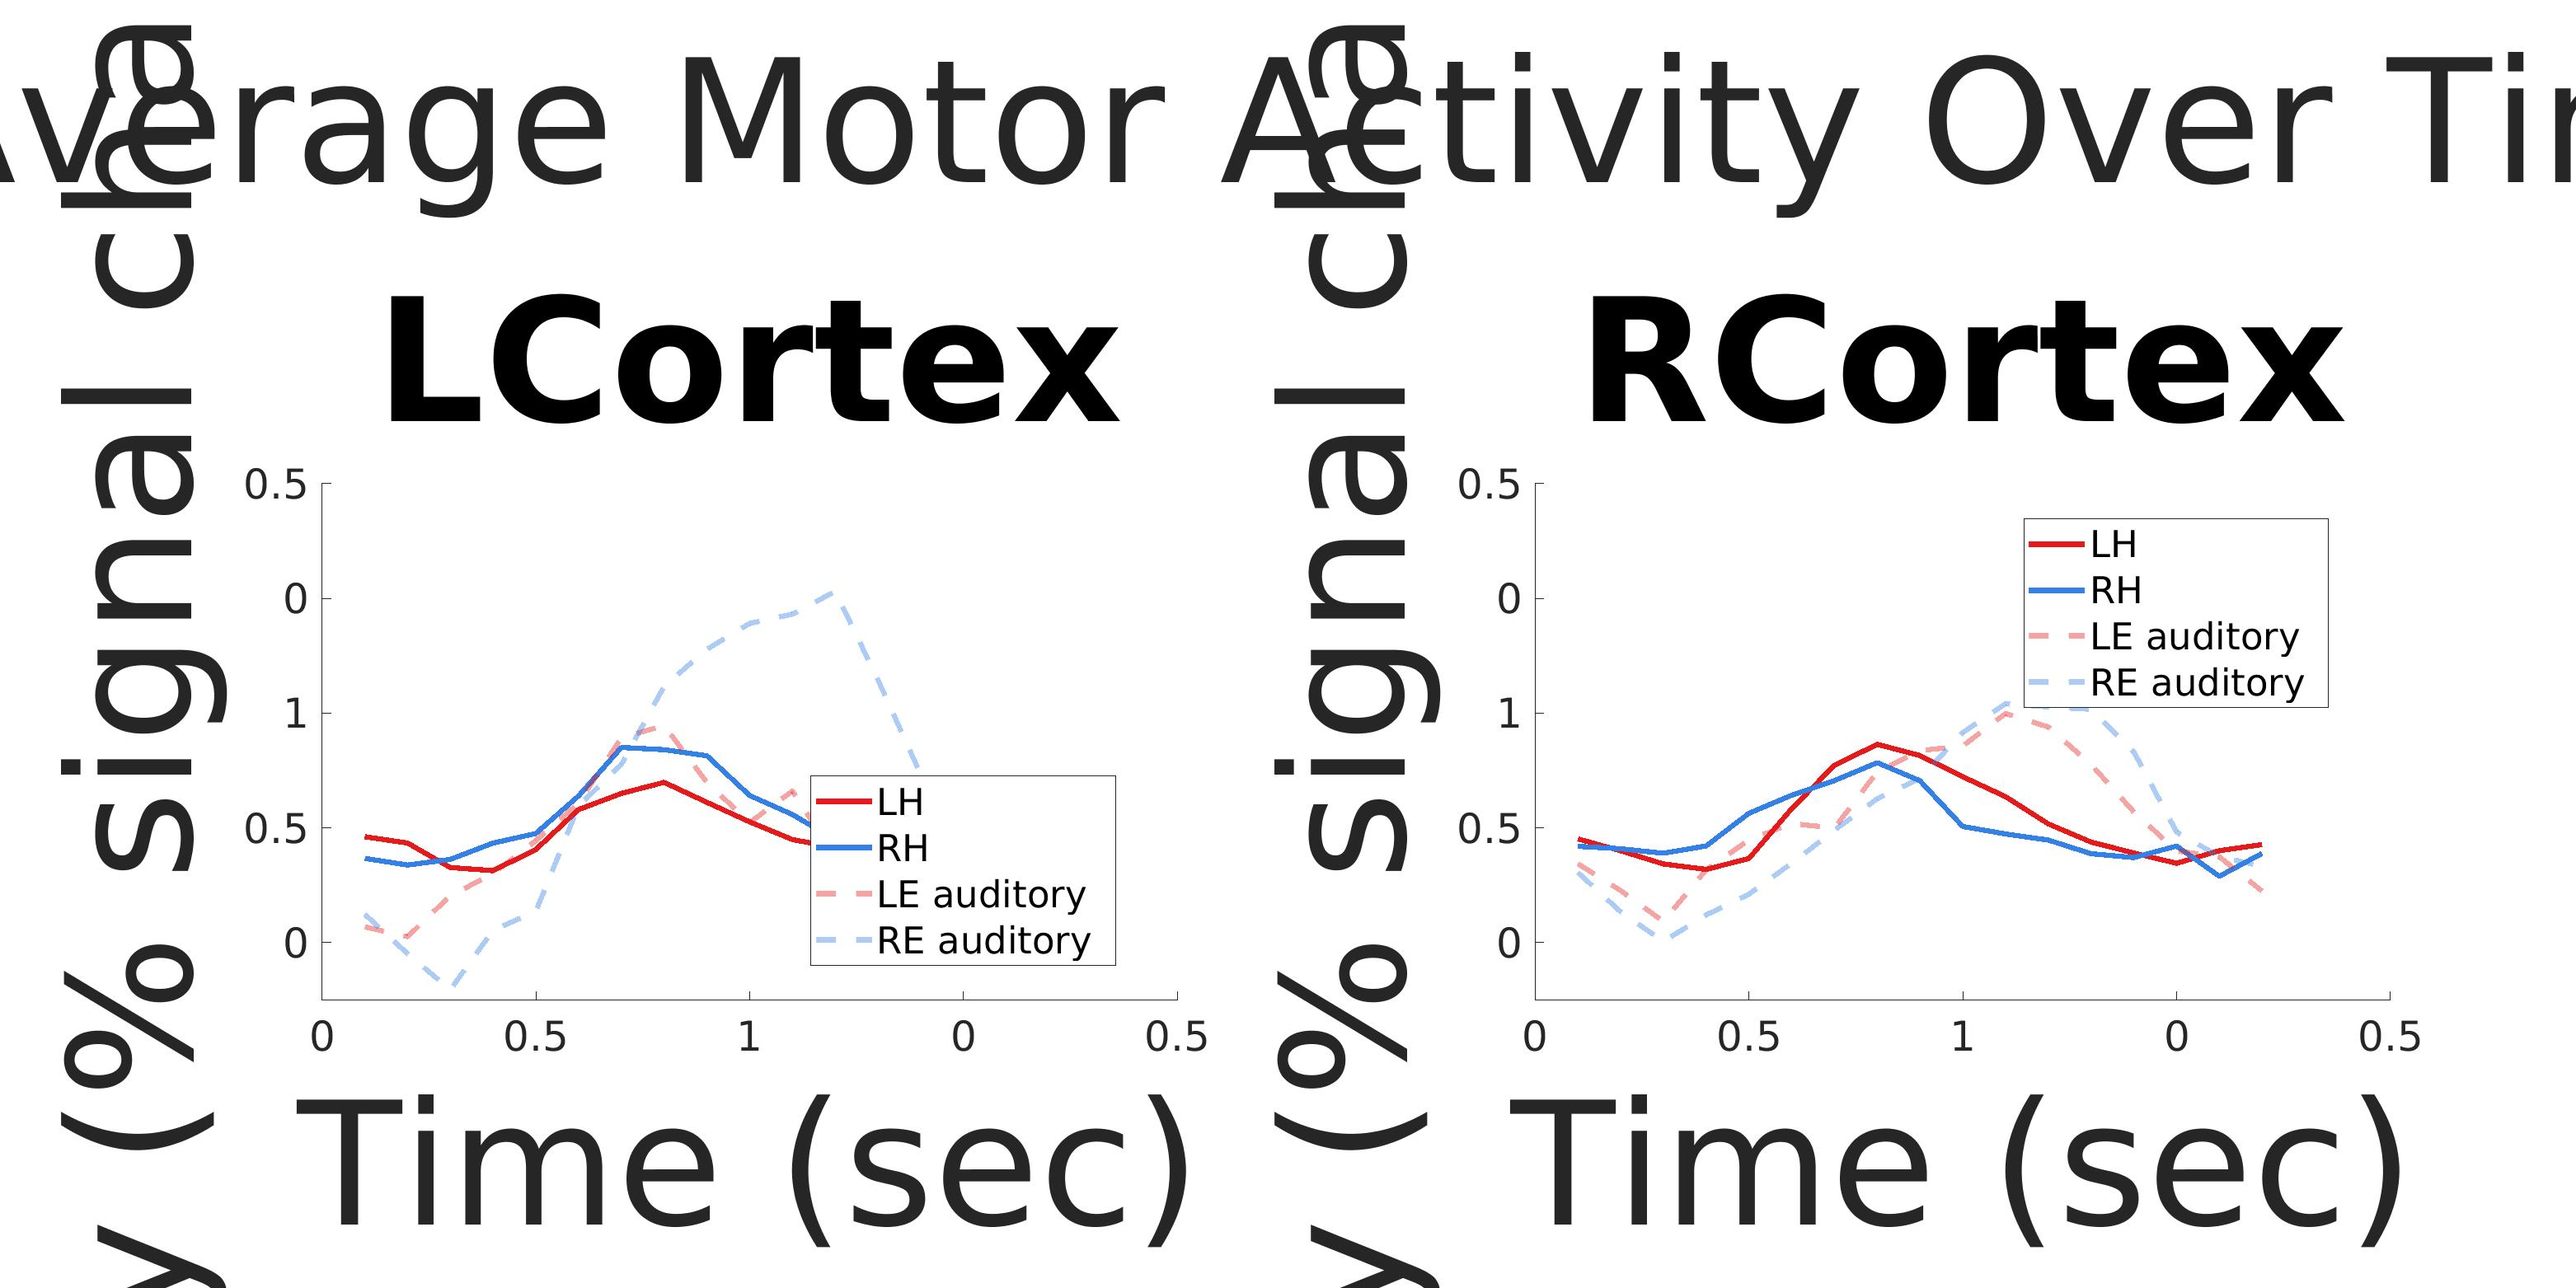
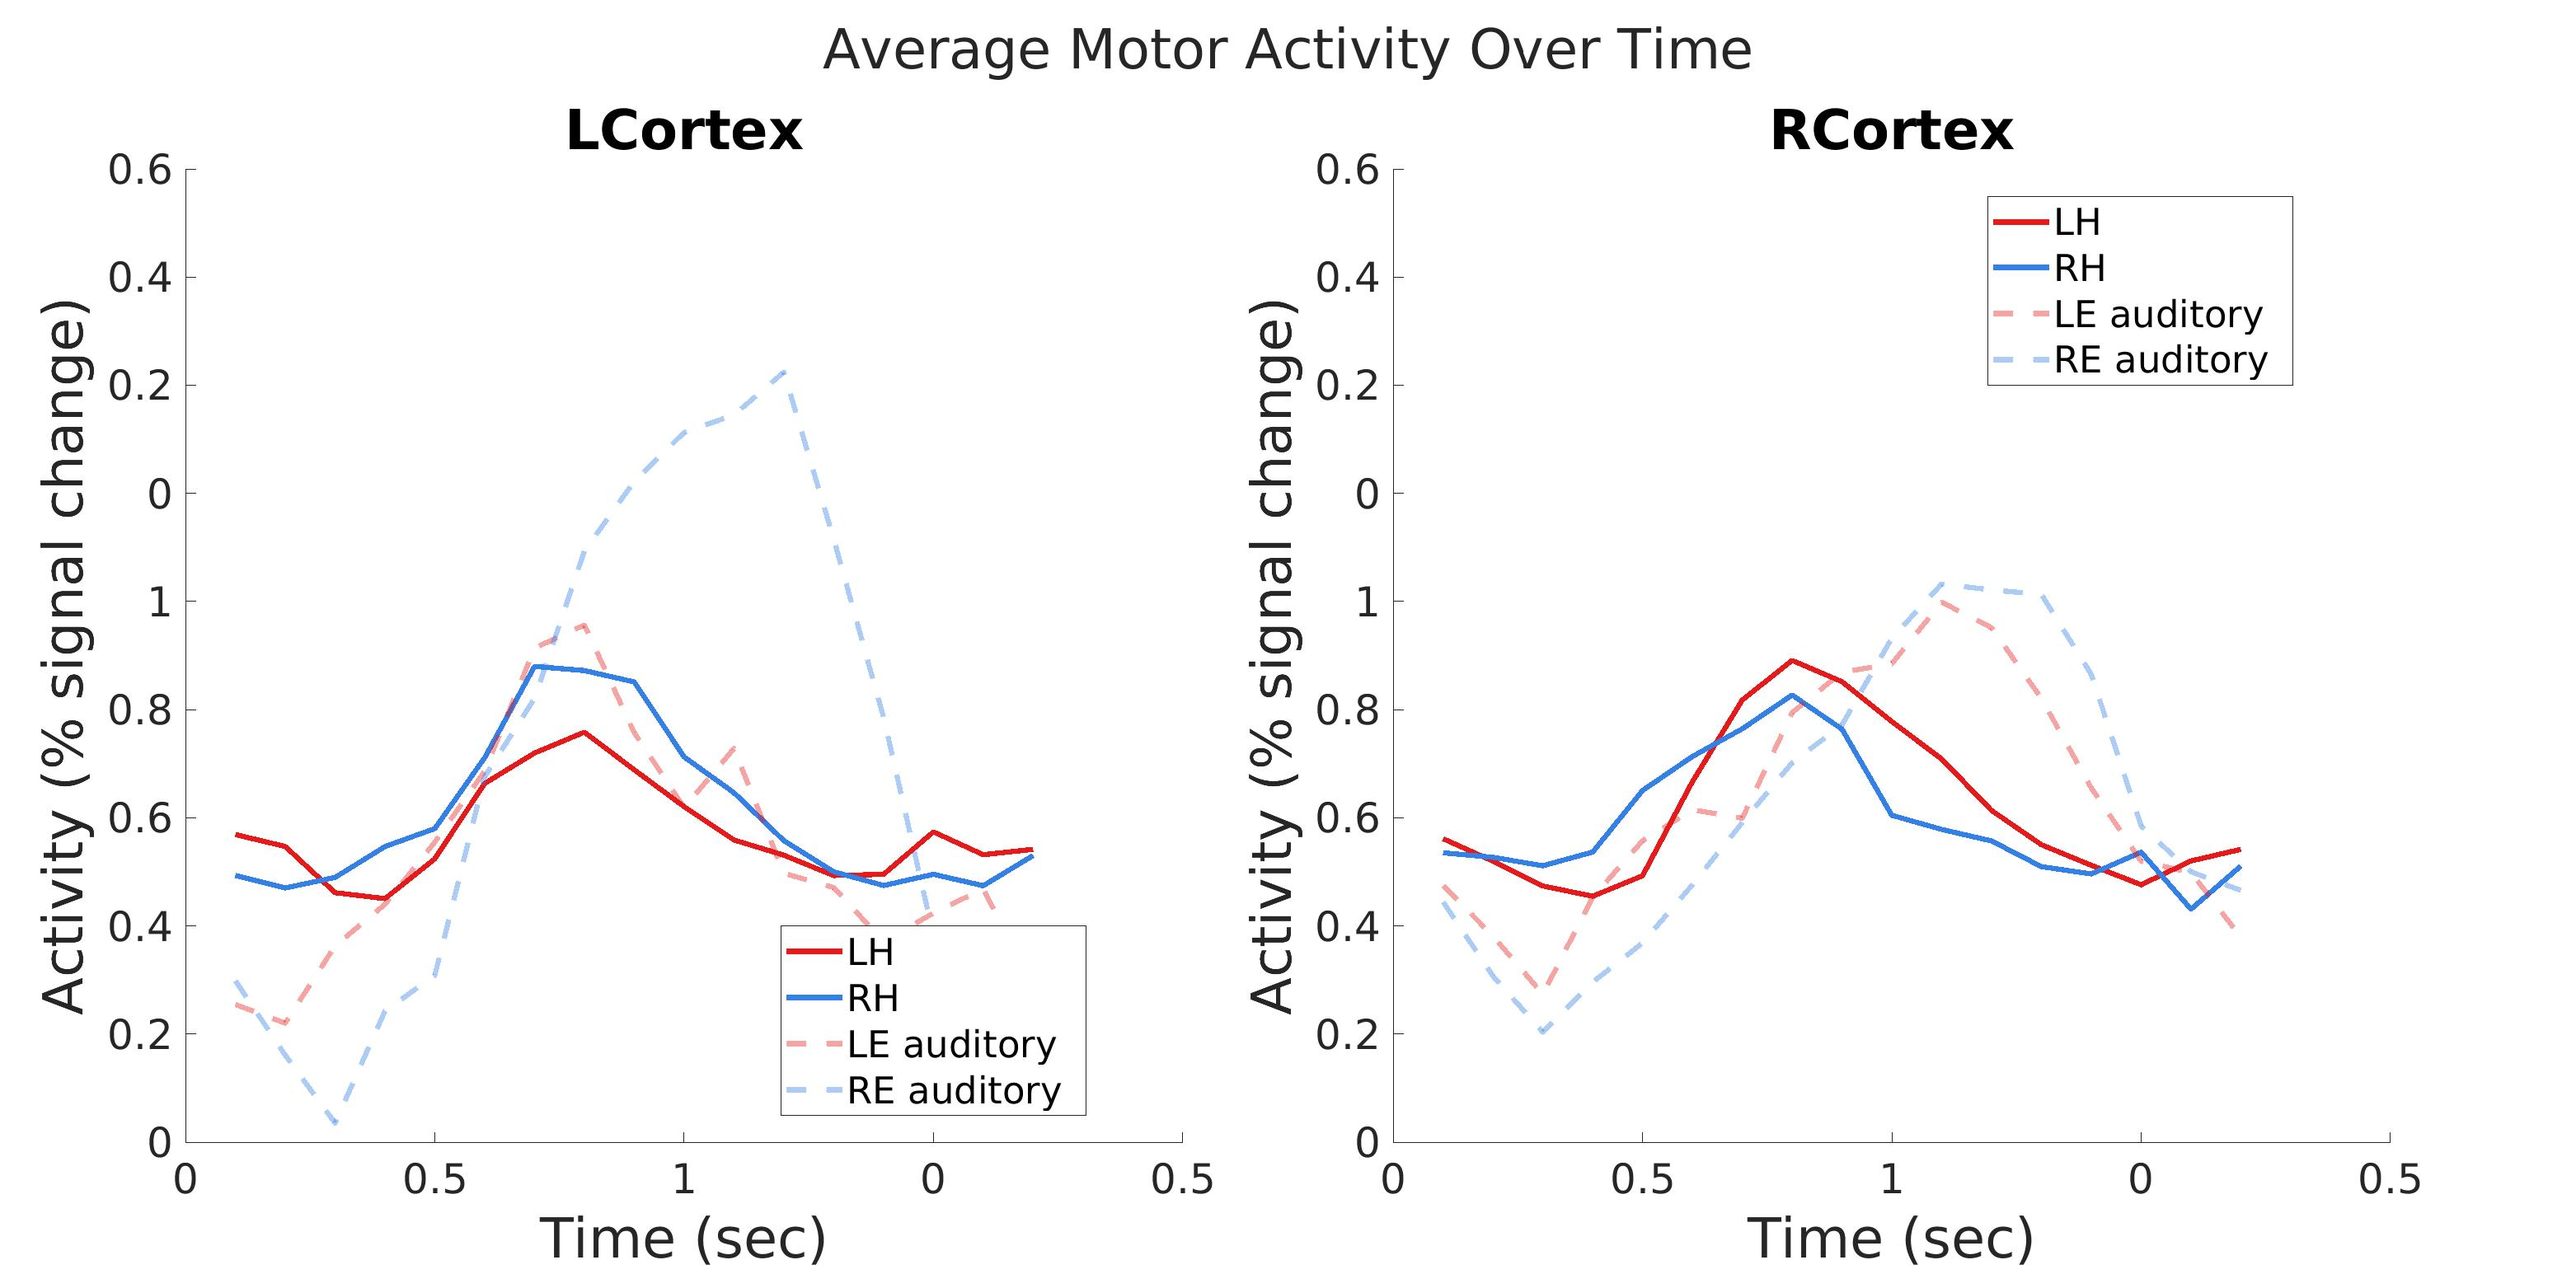
update figures dir (auto)

diff --git a/plotTimeCourseMotorSubplots.m b/plotTimeCourseMotorSubplots.m
@@ -12,7 +12,7 @@ secondaryMonitor = monitorPos(1, :); % Assuming the primary monitor is the first
 % figure('Position', secondaryMonitor); % Set figure position to primary monitor size
 figure('Position', [100, 100, 2000,1000]);
 tcl = tiledlayout(1, 2);
-fontsize = 100; % Set your desired font 
+fontsize = 32; % Set your desired font 
 tickLabelFontSize = 24; % Font size for tick labels
 
 %     ax1 = nexttile;
